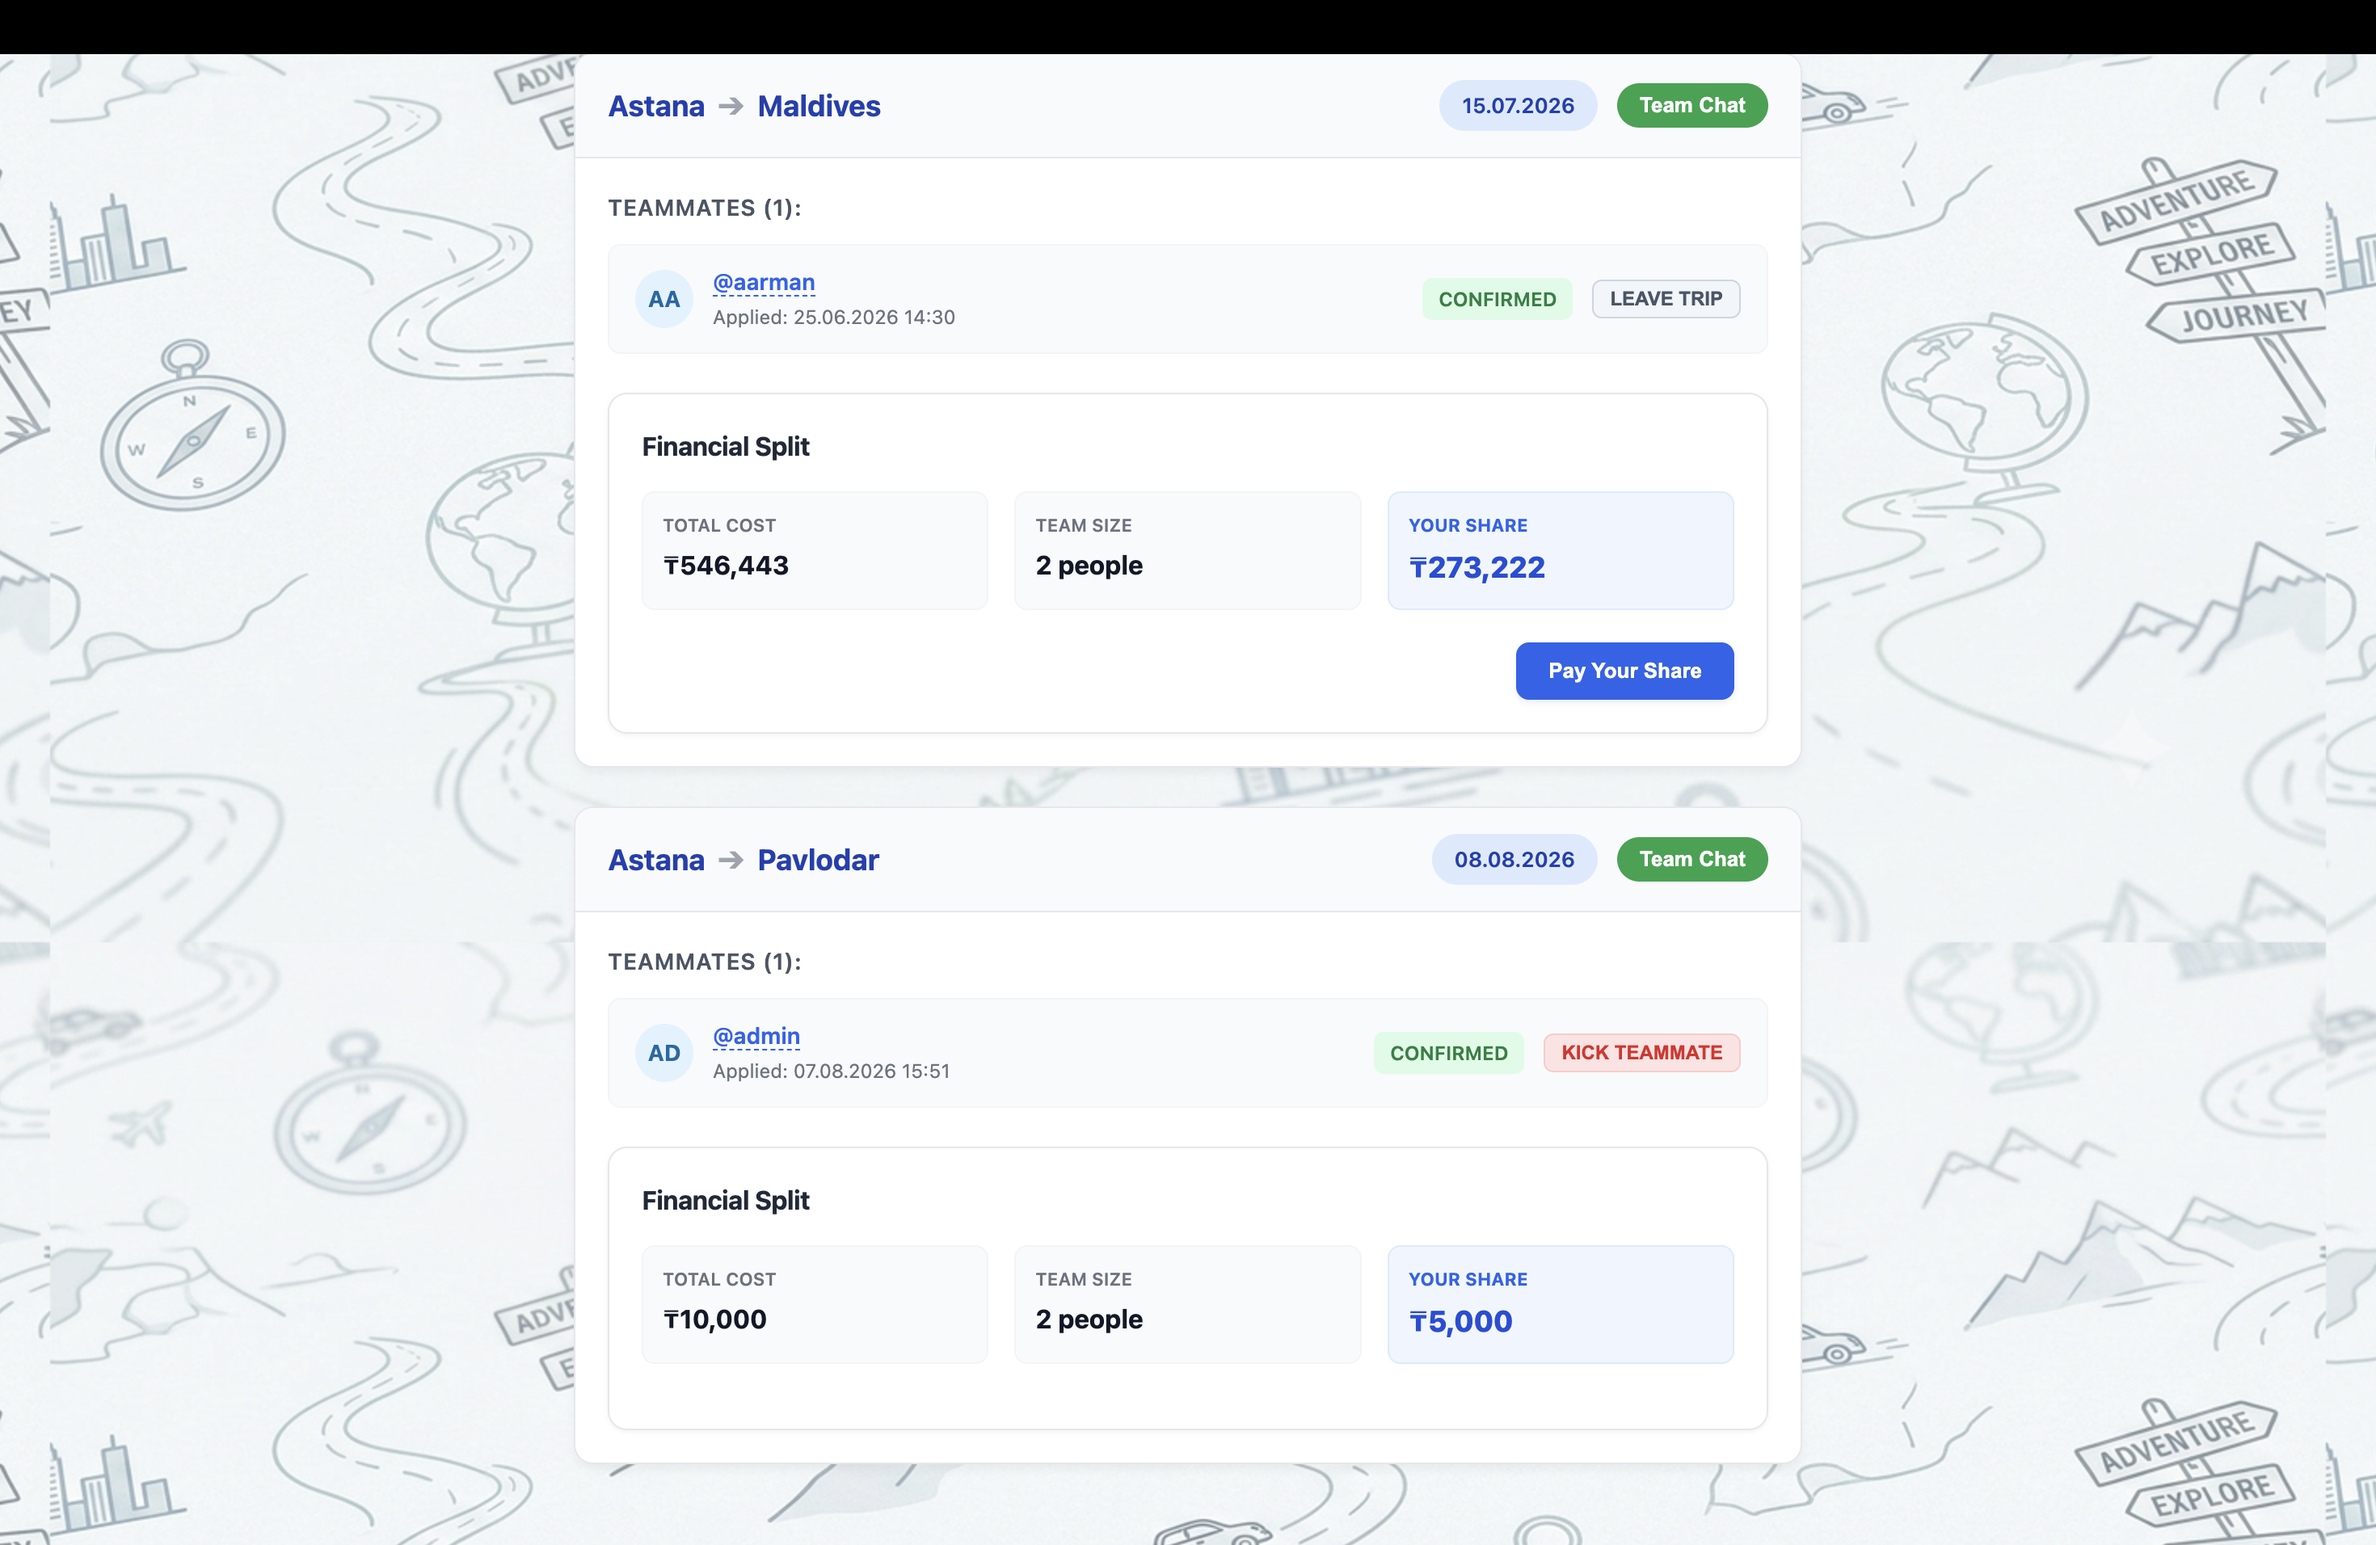
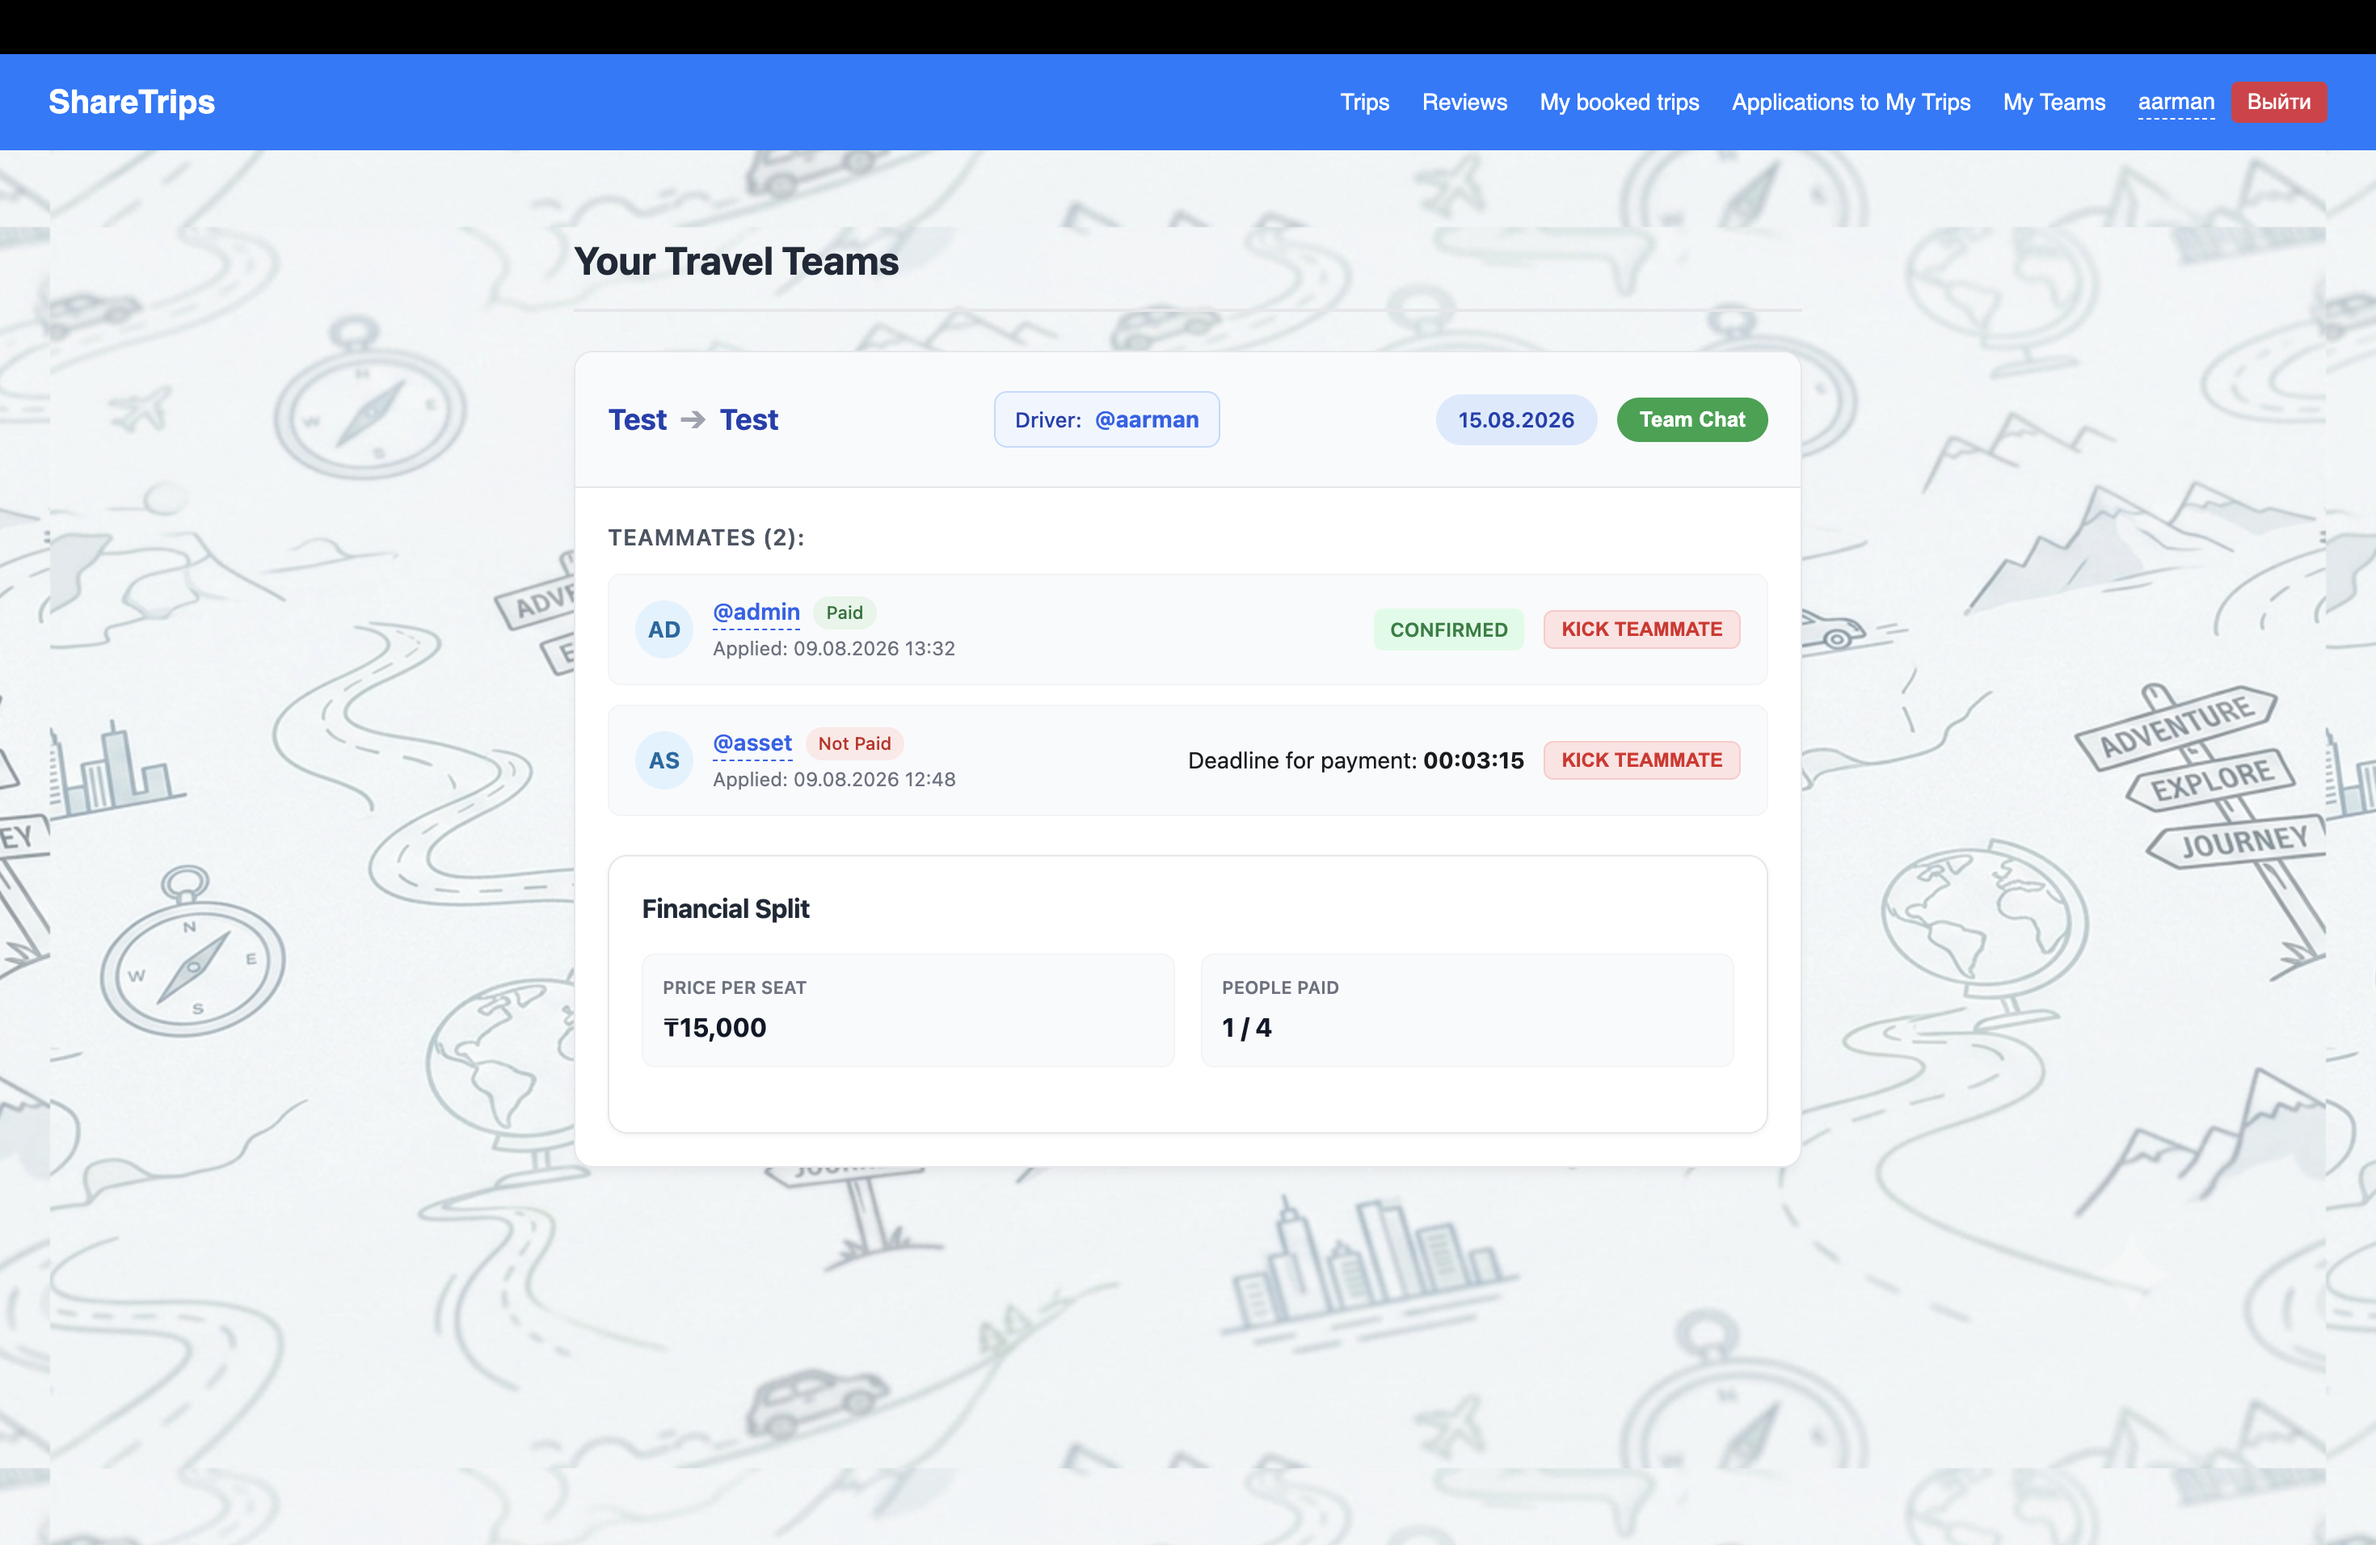
feat: add payment status for every teammate and make new screenshots

diff --git a/frontend/src/app/components/team/team.html b/frontend/src/app/components/team/team.html
@@ -10,12 +10,20 @@
 
   <div *ngFor="let group of groupedTrips" class="trip-card">
     
-
     <div class="card-header">
       <h3 class="route-title">
         {{ group.departure_from }} <span class="arrow">➔</span> {{ group.departure_to }}
       </h3>
+
       
+      <div class="trip-creator-badge" 
+           [routerLink]="['/my-profile', group.applications[0]?.trip?.creator?.id]"
+           style="display: inline-flex; align-items: center; gap: 8px; background: #eff6ff; border: 1px solid #bfdbfe; padding: 6px 12px; border-radius: 8px; cursor: pointer; transition: background 0.2s ease; margin: 8px 0;"
+          >
+        <span style="font-size: 13px; color: #1e40af; font-weight: 500;">Driver:</span>
+        <span style="font-size: 14px; color: #2563eb; font-weight: 700;">@{{ group.applications[0]?.trip?.creator?.username }}</span>
+      </div>
+
       <div class="header-actions">
         <span class="status-badge" [class.status-finished]="group.status === 'Trip has ended'">
           {{ group.status === 'Trip has ended' ? 'Finished' : (group.departure_date | date:'dd.MM.yyyy') }}
@@ -56,22 +64,36 @@
         Teammates ({{ group.applications.length }}):
       </h4>
 
+      
+
+
       <div class="teammates-grid">
         <div *ngFor="let app of group.applications" class="teammate-row">
           
           <div class="user-info">
-            <div class="avatar avatar-passenger">
-              {{ app.applier.username.substring(0, 2).toUpperCase() }}
-            </div>
-            <div class="user-details">
-              <p class="user-name">
-                <span [routerLink]="['/my-profile', app.applier.id]" class="user-link">
-                  &#64;{{ app.applier.username }}
-                </span>
-              </p>
-              <small class="applied-date">Applied: {{ app.applied_at | date:'dd.MM.yyyy HH:mm' }}</small>
-            </div>
-          </div>
+        <div class="avatar avatar-passenger">
+          {{ app.applier.username.substring(0, 2).toUpperCase() }}
+        </div>
+
+        <div class="user-details">
+          <p class="user-name">
+            <span [routerLink]="['/my-profile', app.applier.id]" class="user-link">
+              &#64;{{ app.applier.username }}
+            </span>
+
+
+            <span 
+              class="payment-badge" 
+              [class.paid]="app.is_paid" 
+              [class.unpaid]="!app.is_paid"
+            >
+              {{ app.is_paid ? 'Paid' : 'Not Paid' }}
+            </span>
+          </p>
+
+          <small class="applied-date">Applied: {{ app.applied_at | date:'dd.MM.yyyy HH:mm' }}</small>
+        </div>
+        </div>
 
           <div class="actions-group">
             <ng-container *ngIf="group.status !== 'Trip has ended'">
@@ -80,7 +102,7 @@
               </span>
 
               <div *ngIf="app.status === 'waiting_payment'" class="payment-timer-block">
-                <span class="timer-label">Pay within:</span>
+                <span class="timer-label">Deadline for payment:</span>
                 <strong class="timer-value text-danger">
                   {{ timeRemainingMap[app.id] || 'Loading...' }}
                 </strong>

diff --git a/frontend/src/app/components/my-profile/my-profile.html b/frontend/src/app/components/my-profile/my-profile.html
@@ -103,7 +103,7 @@
               <p><strong>Departure:</strong> {{ trip.departure_date | date:'dd.MM.yyyy' }}</p>
               <p *ngIf="trip.return_date"><strong>Return:</strong> {{ trip.return_date | date:'dd.MM.yyyy' }}</p>
               <p><strong>Seats left:</strong> {{ trip.remaining_seats }} / {{ trip.total_seats }}</p>
-              <p><strong>Price:</strong> {{ trip.total_cost }} KZT</p>
+              <p><strong>Cost per person:</strong> {{ trip.cost_per_person }} KZT</p>
             </div>
           </div>
         </div>
@@ -139,7 +139,7 @@
                 </span>
               </p>
               <p><strong>Departure Date:</strong> {{ trip.departure_date | date:'dd.MM.yyyy' }}</p>
-              <p><strong>Price:</strong> {{ trip.total_cost }} KZT</p>
+              <p><strong>Cost per person:</strong> {{ trip.cost_per_person }} KZT</p>
             </div>
           </div>
         </div>

diff --git a/frontend/src/app/components/home/home.html b/frontend/src/app/components/home/home.html
@@ -180,7 +180,7 @@
           <p><strong class="label">Departure date:</strong> {{ trip.departure_date | date:'dd.MM.yyyy' }}</p>
           <p *ngIf="trip.return_date"><strong class="label">Return date:</strong> {{ trip.return_date | date:'dd.MM.yyyy' }}</p>
           <p><strong class="label">Deadline for applications:</strong> {{ trip.application_deadline | date:'dd.MM.yyyy' }}</p>
-          <p><strong class="label">Cost:</strong> <span class="cost-value">{{ trip.cost_per_person }} ₸</span></p>
+          <p><strong class="label">Cost per person:</strong> <span class="cost-value">{{ trip.cost_per_person }} ₸</span></p>
           <p>
             <strong class="label">Publisher:</strong> 
             <span [routerLink]="['/my-profile', trip.creator.id]" class="creator-link" title="View profile">

diff --git a/frontend/src/app/components/future-trips/future-trips.html b/frontend/src/app/components/future-trips/future-trips.html
@@ -49,7 +49,7 @@
 
           <p style="margin: 5px 0;"><strong>Departure date:</strong> {{ app.trip.departure_date | date:'dd.MM.yyyy' }}</p>
           <p style="margin: 5px 0;"><strong>Publisher:</strong> <span style="color: #007bff; cursor: pointer; border-bottom: 1px dashed #007bff;" [routerLink]="['/my-profile', app.trip.creator.id]"> @{{ app.trip.creator.username }}</span></p>
-          <p style="margin: 5px 0;"><strong>Cost:</strong> {{ app.trip.total_cost }} KZT</p>
+          <p style="margin: 5px 0;"><strong>Cost per person:</strong> {{ app.trip.cost_per_person }} KZT</p>
           
           <div style="margin-top: 10px; padding-top: 8px; border-top: 1px solid #fafafa;">
             <small style="color: #999;">Applied at: {{ app.applied_at | date:'dd.MM.yyyy в HH:mm' }}</small>

diff --git a/frontend/src/app/components/team/team.scss b/frontend/src/app/components/team/team.scss
@@ -412,3 +412,28 @@
     }
   }
 }
+
+.user-name {
+  display: flex;
+  align-items: center;
+  gap: 8px;
+  margin: 0;
+  font-weight: 600;
+
+  .payment-badge {
+    font-size: 11px;
+    padding: 2px 8px;
+    border-radius: 12px;
+    font-weight: 500;
+
+    &.paid {
+      background-color: #e6f4ea;
+      color: #137333;
+    }
+
+    &.unpaid {
+      background-color: #fce8e6;
+      color: #c5221f;
+    }
+  }
+}
